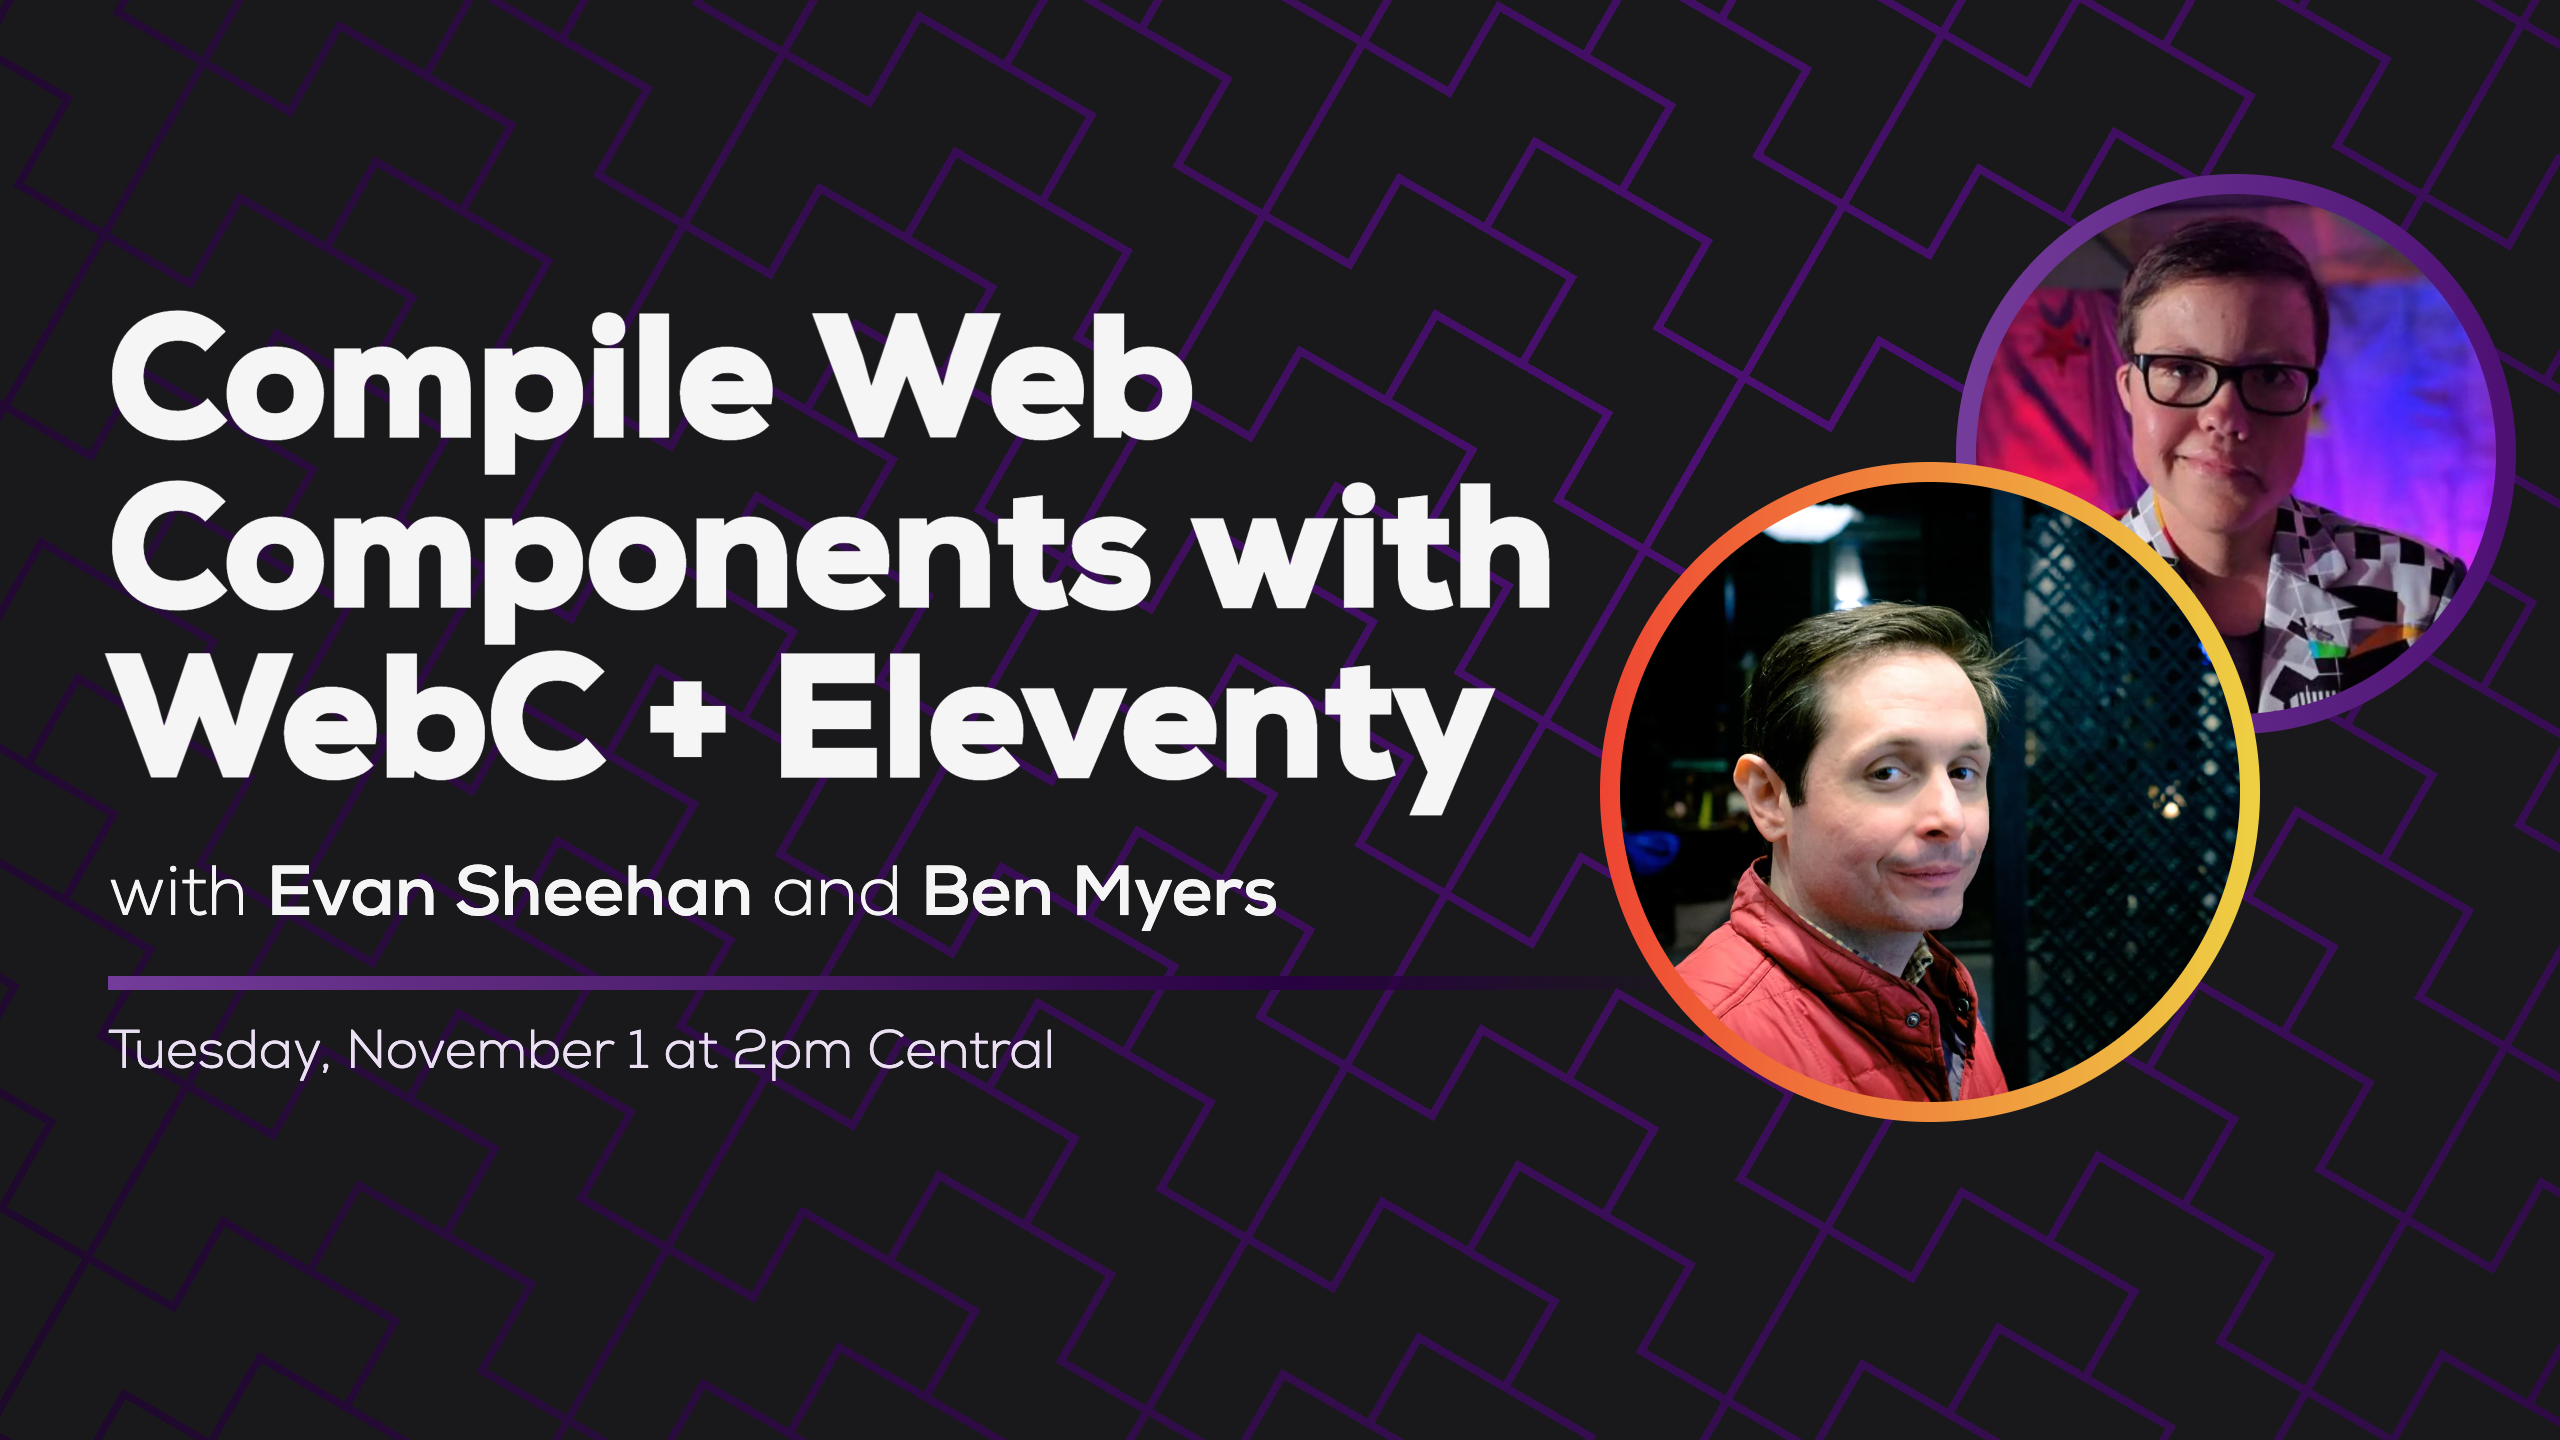
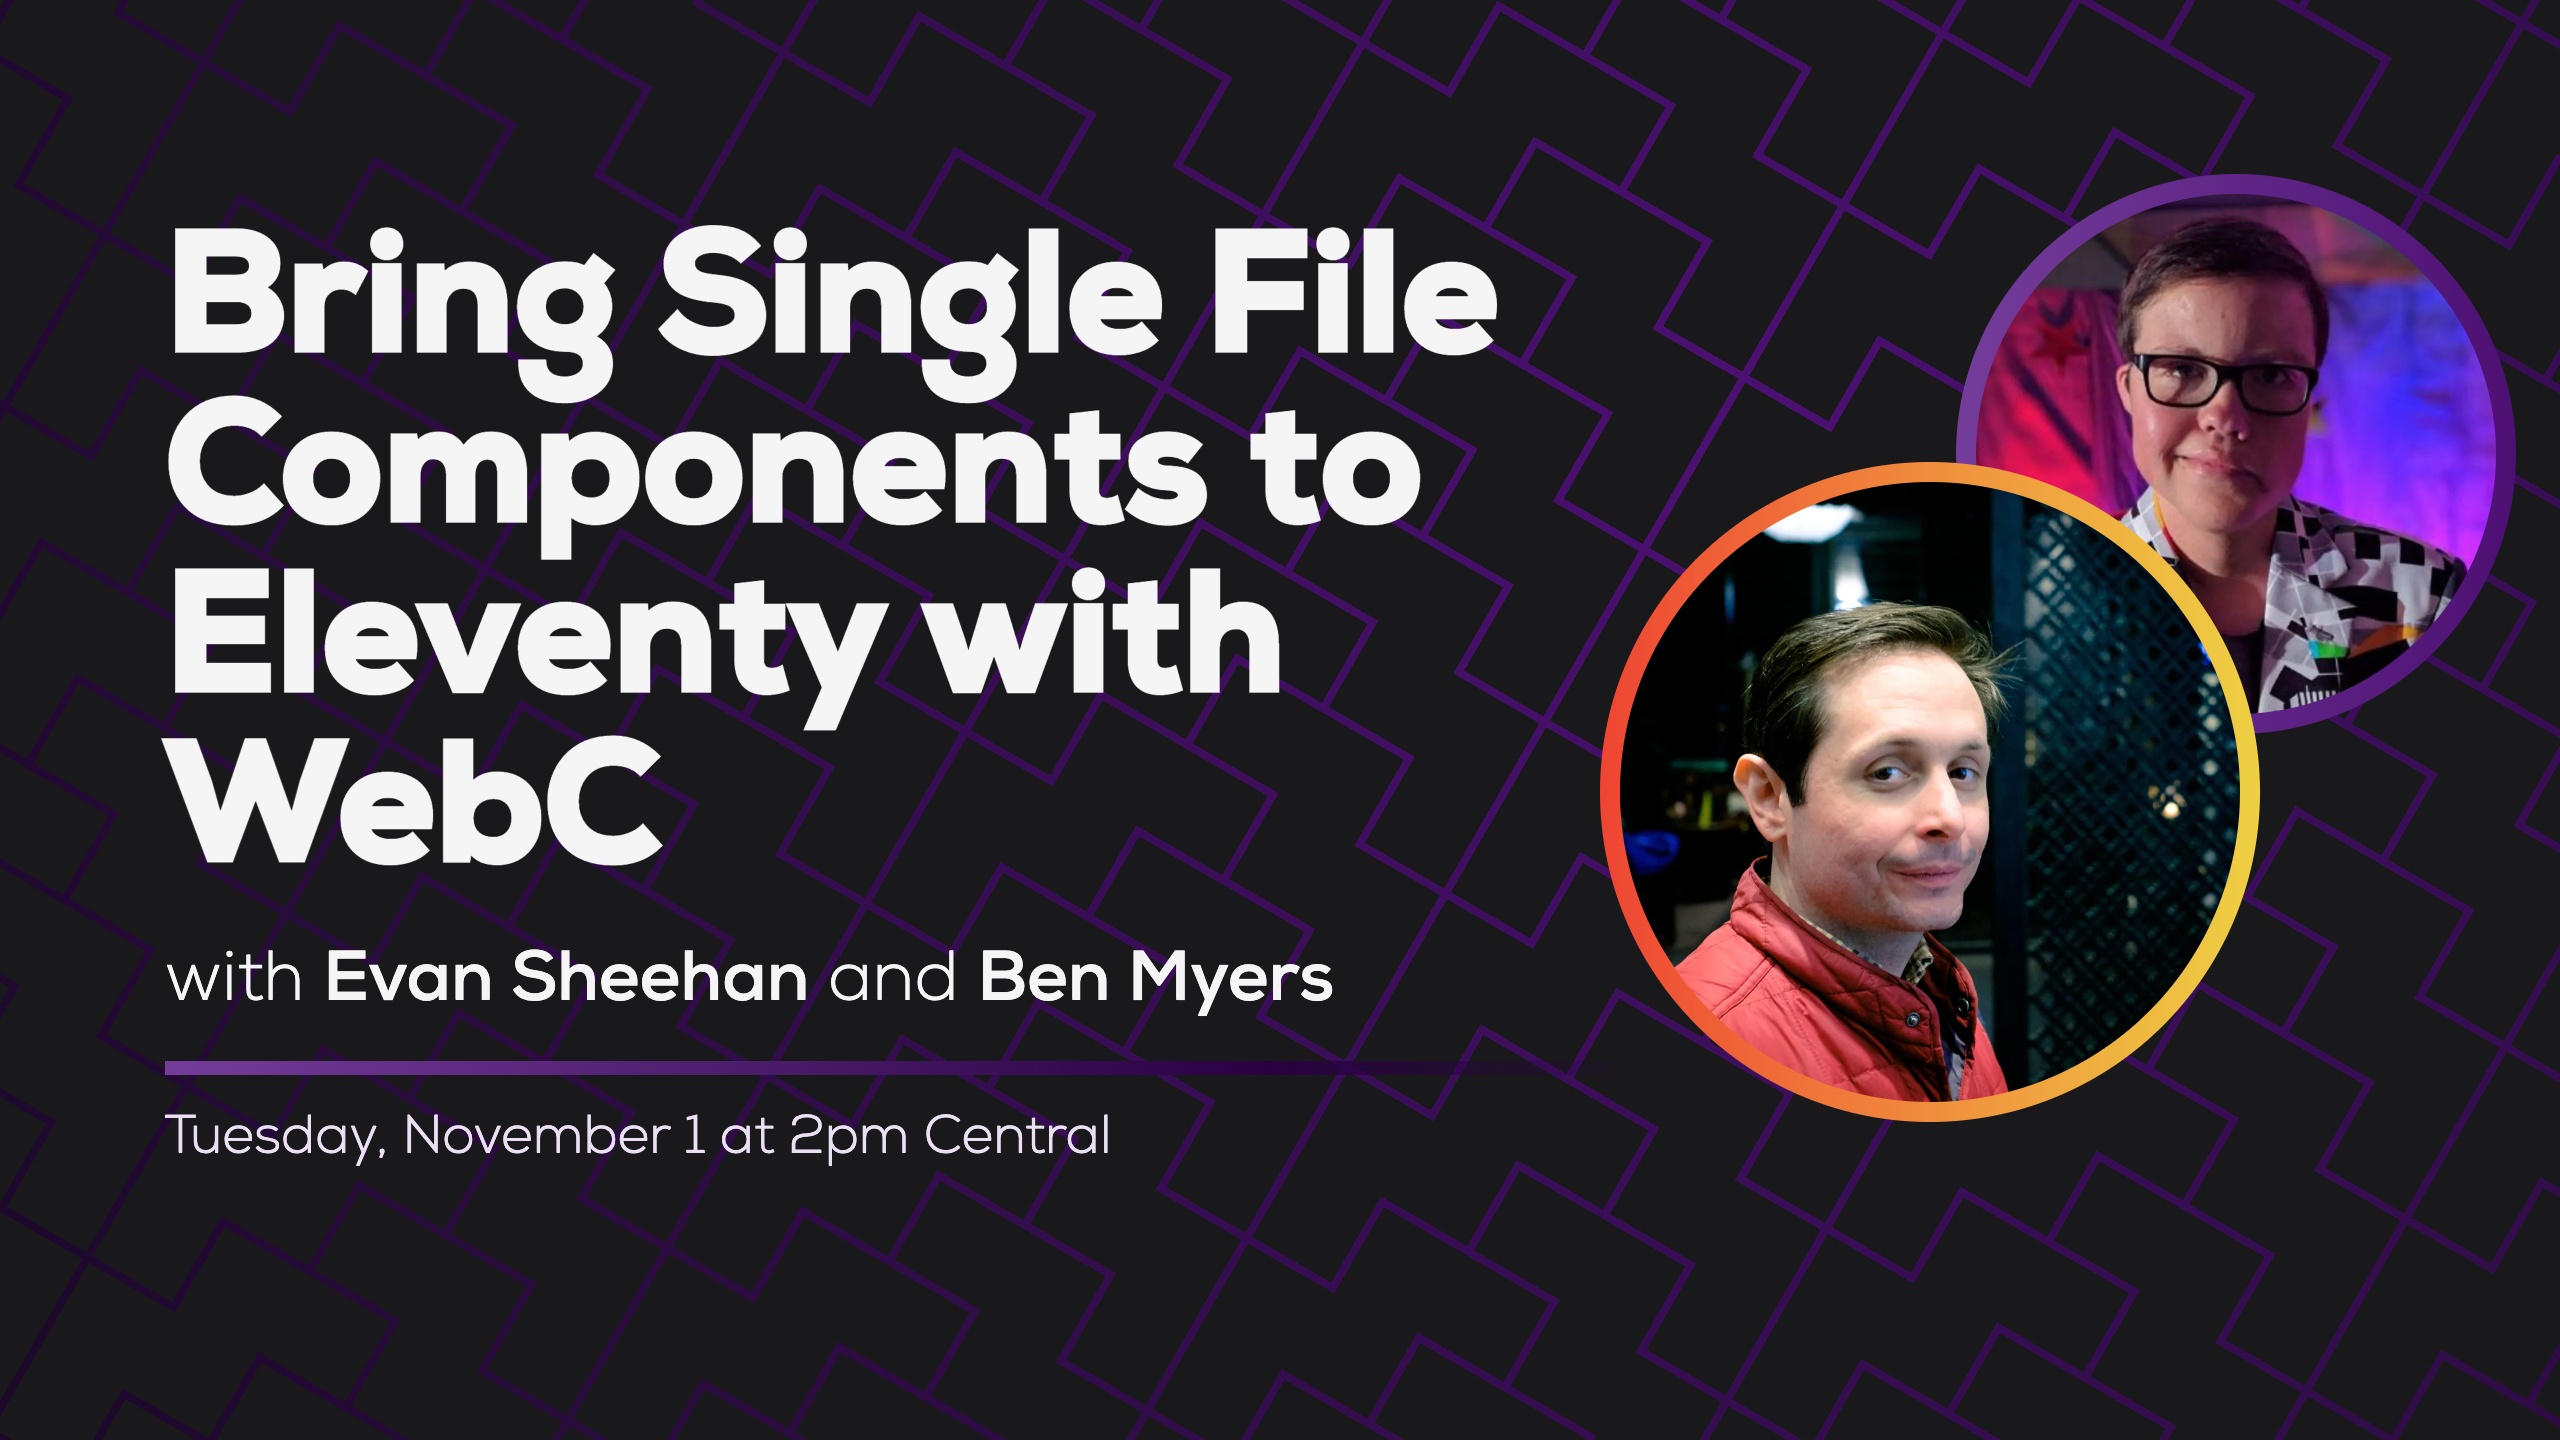
Rename WebC stream

Changed region(s): [[0.0312, 0.1562, 0.625, 0.75], [0.0625, 0.7812, 0.4375, 0.8125]]

diff --git a/src/_/thumbnail.html b/src/_/thumbnail.html
@@ -3,9 +3,10 @@ host: Ben Myers
 guest: Evan Sheehan
 timestamp: 'Tuesday, November 1 at 2pm Central'
 title:
-  - Compile Web
-  - Components with
-  - WebC + Eleventy
+  - Bring Single File
+  - Components to
+  - Eleventy with
+  - WebC
 ---
 <!DOCTYPE html>
 <html lang="en">

diff --git a/src/streams/2022-11-01-webc/index.md b/src/streams/2022-11-01-webc/index.md
@@ -1,6 +1,6 @@
 ---
-title: Compile Web Components with WebC and Eleventy (with Evan Sheehan)
-thumbnailTitle: Compile Web Components with WebC and Eleventy
+title: Bring Single File Components to Eleventy with WebC (with Evan Sheehan)
+thumbnailTitle: Bring Single File Components to Eleventy with WebC
 hosts:
   - Ben Myers
 guests:
